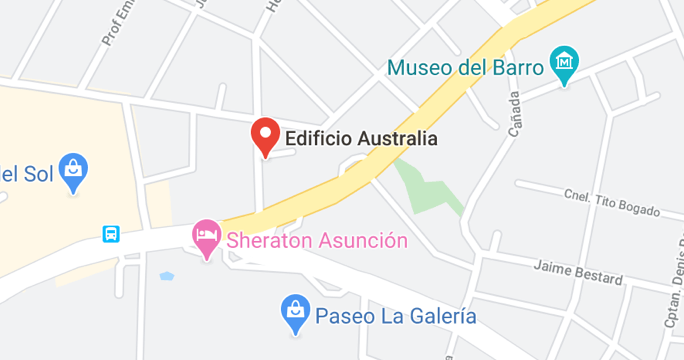
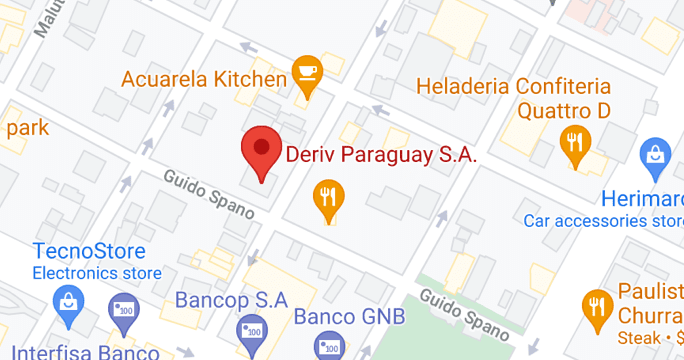
update paraguay address and other related styling issue

diff --git a/src/pages/contact_us/_offices.js b/src/pages/contact_us/_offices.js
@@ -3,7 +3,7 @@ import { graphql, useStaticQuery } from 'gatsby'
 import styled from 'styled-components'
 import { Text, LocalizedLinkText } from 'components/elements/typography'
 import { Header, QueryImage } from 'components/elements'
-import { SectionContainer, Container, Flex, Box } from 'components/containers'
+import { SectionContainer, Container, Flex, Box, Show } from 'components/containers'
 import { localize, LocalizedLink } from 'components/localization'
 import device from 'themes/device'
 // import { map_api_key } from 'common/utility'
@@ -82,6 +82,7 @@ const BorderBox = styled.div`
 
     @media ${device.mobileL} {
         flex-direction: column-reverse;
+        padding-top: 0;
 
         ${MapContainer} {
             height: 173px;
@@ -106,6 +107,9 @@ const CountryText = styled(Text)`
     font-size: var(--text-size-xs);
     color: var(--color-grey-5);
     margin-bottom: 0.8rem;
+    @media ${device.mobileL} {
+        margin-bottom: 8px !important;
+    }
 `
 
 const FullBorder = styled(BorderBox)`
@@ -214,11 +218,17 @@ export const Offices = () => {
                                     mt="0.8rem"
                                     ml="1.6rem"
                                 >
-                                    Level 3, W Business Centre,
-                                    <br></br>
-                                    Triq Dun Karm, Birkirkara,
-                                    <br></br>
-                                    BKR 9033
+                                    <Show.Desktop min_width="mobileL">
+                                        Level 3, W Business Centre,
+                                        <br></br>
+                                        Triq Dun Karm, Birkirkara,
+                                        <br></br>
+                                        BKR 9033
+                                    </Show.Desktop>
+                                    <Show.Mobile>
+                                        Level 3, W Business Centre,Triq Dun Karm,
+                                        <br></br>Birkirkara, BKR 9033
+                                    </Show.Mobile>
                                 </LocalizedLinkText>
                             </BorderBox>
                         </Flex>
@@ -254,9 +264,15 @@ export const Offices = () => {
                                     mt="0.8rem"
                                     ml="1.6rem"
                                 >
-                                    Office 1902, Jumeirah Business
-                                    <br></br>
-                                    Center 1, JLT Cluster G
+                                    <Show.Desktop min_width="mobileL">
+                                        Office 1902, Jumeirah Business
+                                        <br></br>
+                                        Center 1, JLT Cluster G
+                                    </Show.Desktop>
+                                    <Show.Mobile>
+                                        Office 1902, Jumeirah Business Center 1,
+                                        <br></br>JLT Cluster G
+                                    </Show.Mobile>
                                 </LocalizedLinkText>
                             </BorderBox>
                         </Flex>
@@ -295,11 +311,18 @@ export const Offices = () => {
                                             target="_blank"
                                             rel="noopener noreferrer"
                                         >
-                                            C-13, iTech Tower, Jalan Impact,
-                                            <br></br>
-                                            Cyber 6, 63000, Cyberjaya,
-                                            <br></br>
-                                            Selangor
+                                            <Show.Desktop min_width="mobileL">
+                                                C-13, iTech Tower, Jalan Impact,
+                                                <br></br>
+                                                Cyber 6, Cyberjaya 63000,
+                                                <br></br>
+                                                Selangor
+                                            </Show.Desktop>
+                                            <Show.Mobile>
+                                                C-13, iTech Tower, Jalan Impact, Cyber 6,
+                                                <br></br>
+                                                Cyberjaya 63000, Selangor
+                                            </Show.Mobile>
                                         </LocalizedLinkText>
                                     </Box>
                                 </FullBox>
@@ -326,11 +349,18 @@ export const Offices = () => {
                                             target="_blank"
                                             rel="noopener noreferrer"
                                         >
-                                            F16, Level 1, Paragon Labuan,
-                                            <br></br>
-                                            Jalan Tun Mustapha,
-                                            <br></br>
-                                            Labuan 87000, Sabah
+                                            <Show.Desktop min_width="mobileL">
+                                                F16, Level 1, Paragon Labuan,
+                                                <br></br>
+                                                Jalan Tun Mustapha,
+                                                <br></br>
+                                                Labuan 87000, Sabah
+                                            </Show.Desktop>
+                                            <Show.Mobile>
+                                                F16, Level 1, Paragon Labuan,
+                                                <br></br>
+                                                Jalan Tun Mustapha, Labuan 87000, Sabah
+                                            </Show.Mobile>
                                         </LocalizedLinkText>
                                     </Box>
                                 </FullBox>
@@ -357,11 +387,18 @@ export const Offices = () => {
                                             target="_blank"
                                             rel="noopener noreferrer"
                                         >
-                                            E-5-6, Soho Ipoh 2,
-                                            <br></br>
-                                            Jalan Sultan Idris Shah,
-                                            <br></br>
-                                            Ipoh 30000, Perak
+                                            <Show.Desktop min_width="mobileL">
+                                                E-5-6, Soho Ipoh 2,
+                                                <br></br>
+                                                Jalan Sultan Idris Shah,
+                                                <br></br>
+                                                Ipoh 30000, Perak
+                                            </Show.Desktop>
+                                            <Show.Mobile>
+                                                E-5-6, Soho Ipoh 2, Jalan Sultan Idris Shah,
+                                                <br></br>
+                                                Ipoh 30000, Perak
+                                            </Show.Mobile>
                                         </LocalizedLinkText>
                                     </Box>
                                 </FullBox>
@@ -388,9 +425,18 @@ export const Offices = () => {
                                             target="_blank"
                                             rel="noopener noreferrer"
                                         >
-                                            67-1 &amp; 69-1, Jalan KLJ 6, Taman
-                                            <br></br>
-                                            Kota Laksamana Jaya, Melaka 75200
+                                            <Show.Desktop min_width="mobileL">
+                                                67-1 &amp; 69-1, Jalan KLJ 6,
+                                                <br></br>
+                                                Taman Kota Laksamana Jaya,
+                                                <br></br>
+                                                Melaka 75200
+                                            </Show.Desktop>
+                                            <Show.Mobile>
+                                                67-1 & 69-1, Jalan KLJ 6, Taman Kota
+                                                <br></br>
+                                                Laksamana Jaya, Melaka 75200
+                                            </Show.Mobile>
                                         </LocalizedLinkText>
                                     </Box>
                                 </FullBox>
@@ -410,7 +456,7 @@ export const Offices = () => {
                             <BorderBox>
                                 <MapContainer>
                                     <LocalizedLink
-                                        to="https://goo.gl/maps/Y2VJmt6cPkdJpEoM7"
+                                        to="https://goo.gl/maps/ci85LgJcyNj97uDa7"
                                         external
                                         target="_blank"
                                         rel="noopener noreferrer"
@@ -423,18 +469,25 @@ export const Offices = () => {
                                     </LocalizedLink>
                                 </MapContainer>
                                 <LocalizedLinkText
-                                    to="https://goo.gl/maps/Y2VJmt6cPkdJpEoM7"
+                                    to="https://goo.gl/maps/ci85LgJcyNj97uDa7"
                                     external
                                     target="_blank"
                                     rel="noopener noreferrer"
                                     mt="0.8rem"
                                     ml="1.6rem"
                                 >
-                                    Edificio Australia, Oficina 1,
-                                    <br></br>
-                                    Herib Campos Cervera 886,
-                                    <br></br>
-                                    Asunción
+                                    <Show.Desktop min_width="mobileL">
+                                        Edificio Atrium, Piso 2, Guido
+                                        <br></br>
+                                        Spano Esq. Doctor Morra,
+                                        <br></br>
+                                        Asunción 1849
+                                    </Show.Desktop>
+                                    <Show.Mobile>
+                                        Edificio Atrium, Piso 2, Guido Spano Esq.
+                                        <br></br>
+                                        Doctor Morra, Asunción 1849
+                                    </Show.Mobile>
                                 </LocalizedLinkText>
                             </BorderBox>
                         </Flex>
@@ -546,7 +599,16 @@ export const Offices = () => {
                                     mt="0.8rem"
                                     ml="1.6rem"
                                 >
-                                    Level 2, 25/1-3 Vera Khoruzhey Street, Minsk 220123
+                                    <Show.Desktop min_width="mobileL">
+                                        Level 2, 25/1-3 Vera Khoruzhey
+                                        <br></br>
+                                        Street, Minsk 220123
+                                    </Show.Desktop>
+                                    <Show.Mobile>
+                                        Level 2, 25/1-3 Vera Khoruzhey Street,
+                                        <br></br>
+                                        Minsk 220123
+                                    </Show.Mobile>
                                 </LocalizedLinkText>
                             </BorderBox>
                         </Flex>
